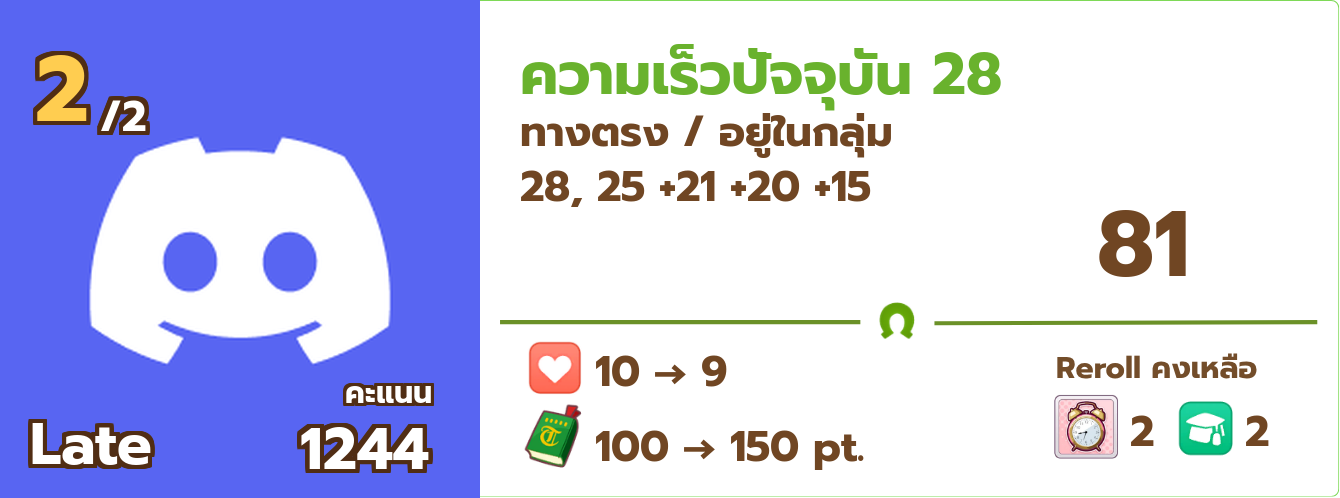
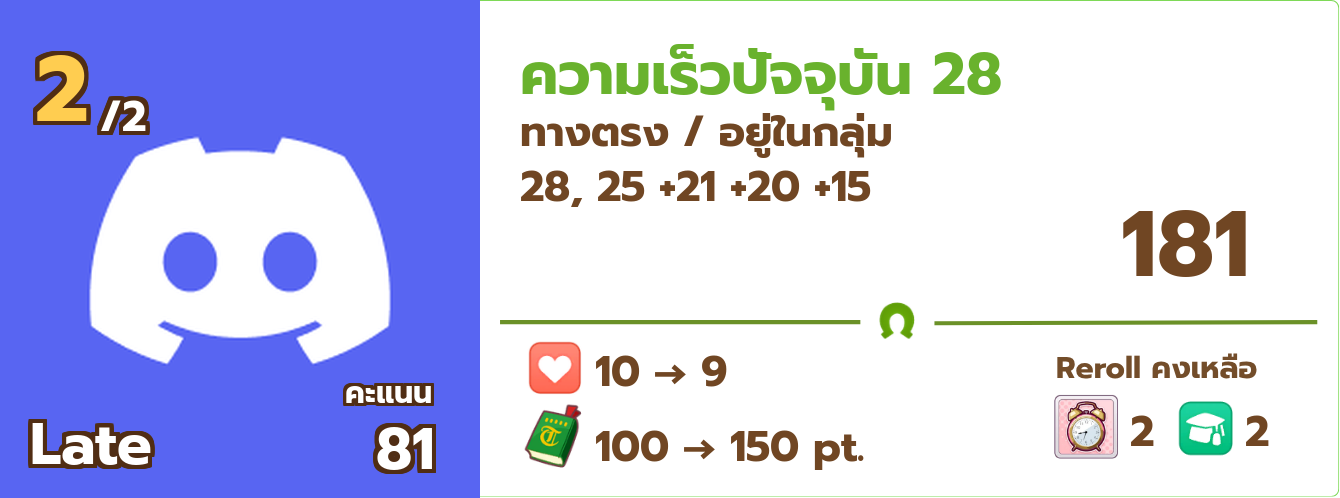
test result

Changed region(s): [[0.7955, 0.4217, 0.9485, 0.5723], [0.2142, 0.8434, 0.3366, 0.9639]]

diff --git a/utils/race_dice_preview.py b/utils/race_dice_preview.py
@@ -59,13 +59,13 @@ def crop_cover(img: Image.Image, size: tuple[int, int]) -> Image.Image:
     return img.crop((left, top, left + tw, top + th))
 
 
-def draw_text_outline(draw, xy, text, font, fill, outline=(255, 255, 255), width=3):
+def draw_text_outline(draw, xy, text, font, fill, outline=(255, 255, 255), width=3, anchor="la"):
     x, y = xy
     for dx in range(-width, width + 1):
         for dy in range(-width, width + 1):
             if dx or dy:
-                draw.text((x + dx, y + dy), text, font=font, fill=outline)
-    draw.text((x, y), text, font=font, fill=fill)
+                draw.text((x + dx, y + dy), text, font=font, fill=outline, anchor=anchor)
+    draw.text((x, y), text, font=font, fill=fill, anchor=anchor)
 
 
 def paste_icon(card: Image.Image, path: Path, pos, size):
@@ -108,11 +108,10 @@ def parse_display_text(text: str):
 
     return tokens
 
-def draw_rich_text(draw, base_pos, tokens, font, color):
+def draw_rich_text(card, draw, base_pos, tokens, font, color):
     x, y = base_pos
 
     for t_type, value in tokens:
-
         if t_type == "text":
             draw.text((x, y), value, font=font, fill=color)
             bbox = draw.textbbox((x, y), value, font=font)
@@ -123,12 +122,11 @@ def draw_rich_text(draw, base_pos, tokens, font, color):
 
             bbox = draw.textbbox((x, y), value, font=font)
             w = bbox[2] - bbox[0]
-            h = bbox[3] - bbox[1]
 
             draw.line(
-                (x, y + h + 2, x + w, y + h + 2),
+                (x, y + 46, x + w, y + 46),
                 fill=color,
-                width=3
+                width=4
             )
             x += w
 
@@ -136,13 +134,13 @@ def draw_rich_text(draw, base_pos, tokens, font, color):
             icon_path = ICON_MAP.get(value)
 
             if icon_path and icon_path.exists():
-                icon = Image.open(icon_path).convert("RGBA").resize((36, 36))
-                draw.bitmap((x, y + 5), icon)
-                x += 40
+                icon = Image.open(icon_path).convert("RGBA").resize((42, 42), Image.LANCZOS)
+                card.paste(icon, (x + 4, y + 6), icon)
+                x += 52
             else:
-                # fallback text
-                draw.text((x, y), value, font=font, fill=color)
-                bbox = draw.textbbox((x, y), value, font=font)
+                fallback = value
+                draw.text((x, y), fallback, font=font, fill=color)
+                bbox = draw.textbbox((x, y), fallback, font=font)
                 x += bbox[2] - bbox[0]
 
 async def create_race_dice_preview(
@@ -237,12 +235,13 @@ async def create_race_dice_preview(
 
     draw_text_outline(
         draw,
-        (300, 405),
+        (435, 405),
         str(new_score),
         font_big,
         fill=white,
         outline=(80, 45, 20),
         width=4,
+        anchor="ra",
     )
 
     # ===== right content =====
@@ -271,6 +270,7 @@ async def create_race_dice_preview(
     tokens = parse_display_text(full_text)
 
     draw_rich_text(
+        card,
         draw,
         (520, 155),
         tokens,
@@ -281,7 +281,7 @@ async def create_race_dice_preview(
     # total score this roll
     total = result.get("total", 0)
     draw.text(
-        (1190, 175),
+        (1250, 175),
         str(total),
         font=font_score,
         fill=brown,

diff --git a/test_race_preview.py b/test_race_preview.py
@@ -21,14 +21,14 @@ result = {
     "turn": 2,
     "display": "28, 25",
     "bonus_display": "+21 +20 +15",
-    "total": 81
+    "total": 181
 }
 
 async def main():
     card = await create_race_dice_preview(
         game_player=player,
         result=result,
-        new_score=1244,
+        new_score=81,
         path_label="ทางตรง",
         character_image_url=player["image_url"],
 
